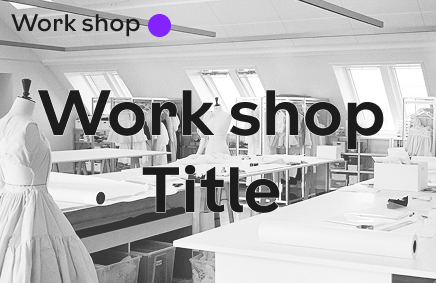
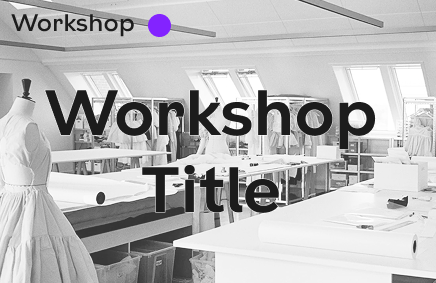
developped map pins

diff --git a/map.html b/map.html
@@ -26,27 +26,47 @@
     <h1><a href="index.html">HOME > </a></h1>  <h1><a class="active">MAP</a></h1>
 </footer>
 <script>
+
     const pins = [
   {
     id: 1,
-    top: "40%",
+    top: "35%",
     left: "60%",
-    title: "Main Stage",
-    desc: "Opening Ceremony & Keynote"
+    title: "Main Runway Hall",
+    desc: "Nørregade 14, 1165 København K",
+    img: "/map/runway.png"
   },
   {
     id: 2,
     top: "65%",
     left: "30%",
-    title: "Design Zone",
-    desc: "Exhibitions and pop-up studios"
+    title: "TikTok Creator Hub",
+    desc: "Vesterbrogade 72, 1620 København",
+    img: "/map/tiktok.png"
   },
   {
     id: 3,
     top: "55%",
+    left: "80%",
+    title: "Exhibition",
+    desc: "Gothersgade 105, 1123 København K",
+    img: "/map/exhibition.png"
+  },
+   {
+    id: 4,
+    top: "25%",
     left: "75%",
     title: "Food Lounge",
-    desc: "Refreshments & networking area"
+    desc: "Læderstræde 18, 1201 København K,",
+    img: "/map/food.png"
+  },
+  {
+    id: 5,
+    top: "35%",
+    left: "20%",
+    title: "CIFF",
+    desc: "Studiestræde 45, 1554 København",
+    img: "/map/ciff.png"
   }
 ];
 
@@ -59,22 +79,21 @@ pins.forEach(pin => {
   pinEl.style.left = pin.left;
   pinEl.innerHTML = `
     <img src="/map/pin.svg" alt="Pin" width="40" height="40">
+    <div class="pin-title">${pin.title}</div>
     <div class="popup">
-      <h4>${pin.title}</h4>
+        <img class="map-popup-img"src="${pin.img}">
       <p>${pin.desc}</p>
     </div>
   `;
   pinsContainer.appendChild(pinEl);
 
-  // 클릭으로 팝업 열고 닫기
   const popup = pinEl.querySelector('.popup');
   pinEl.addEventListener('click', e => {
-    e.stopPropagation(); // 다른 핀 클릭 시 닫힘 방지
+    e.stopPropagation(); 
     popup.classList.toggle('active');
   });
 });
 
-// 지도 밖 클릭 시 모든 팝업 닫기
 document.addEventListener('click', () => {
   document.querySelectorAll('.popup.active').forEach(p => p.classList.remove('active'));
 });

diff --git a/stylesheet.css b/stylesheet.css
@@ -218,10 +218,6 @@ header .powered span {
   margin-bottom: -50px;
 }
 
-.map .event-head{
-  margin-top: 120px;
-}
-
 .event-head{
   font-family: 'KBH-Medium', sans-serif;
   font-size: 21px;
@@ -239,8 +235,8 @@ aside{
 
 .map-small{
   border:1px solid var(--accent-color);
-  width: 350px;
-  height: auto;
+  width: 400px;
+  height: 320px;
 }
 
 .qr-section{
@@ -462,7 +458,7 @@ aside{
 .event[data-type="Talk"] .event-thumbnail,
 .event[data-type="Interview"] .event-thumbnail,
 .event[data-type="Film"] .event-thumbnail,
-.event[data-type="Work shop"] .event-thumbnail,
+.event[data-type="Workshop"] .event-thumbnail,
 .event[data-type="After party"] .event-thumbnail{
   margin-top:5px;
   border: 8px solid #FBFBFB;
@@ -612,6 +608,15 @@ aside{
   cursor: pointer;
 } */
 
+.map .event-head{
+  margin-top: 120px;
+}
+
+.map-popup-img{
+ width: 80px;
+ height: 80px;
+}
+
 .map-container {
   display: flex;
    justify-content: center;  /* 가로 중앙 정렬 */
@@ -659,19 +664,31 @@ aside{
   transform: scale(1.1);
 }
 
+.pin-title {
+  margin-top: 6px;
+  font-size: 21px;
+  font-weight: 600;
+  color: var(--main-color);
+  -webkit-text-stroke: 1px rgba(0,0,0,0.2);
+  text-shadow: 2px 2px 6px rgba(0,0,0,0.2);
+  white-space: nowrap;
+}
+
+
 .popup {
   position: absolute;
   top: -10px;
   left: 50%;
   transform: translate(-50%, -120%);
   background: white;
-  border-radius: 8px;
+  border-radius: 4px;
   box-shadow: 0 4px 8px rgba(0,0,0,0.15);
   padding: 8px 12px;
-  width: 160px;
-  font-size: 14px;
-  text-align: center;
-  display: none;
+  width: 200px;
+  font-size: 16px;
+  color:#1C1C1C;
+  display: flex;
+  gap: 10px;
 }
 
 .popup.active {

diff --git a/schedules.js b/schedules.js
@@ -211,8 +211,8 @@ Please visit the Vega website to book your ticket.`
     },
      { 
       time: "13:00",
-      title: "Work Shop Title",         
-      type: "Work shop",      
+      title: "Workshop Title",         
+      type: "Workshop",      
       date: "27 Jan 2026",
       host: "Kim from Kolding design school",
       venue: "Illum Studio 2F",
@@ -484,8 +484,8 @@ note: `This talk show has limited seats.
 },
 {
   time: "13:00",
-  title: "Work Shop Title",
-  type: "Work shop",
+  title: "Workshop Title",
+  type: "Workshop",
   date: "28 Jan 2026",
       host: "Kim from Kolding design school",
       venue: "Illum Studio 2F",
@@ -742,8 +742,8 @@ Please visit the Vega website to book your ticket.`
 //3rd column
 {
   time: "10:00",
-  title: "Work shop Title",
-  type: "Work shop",
+  title: "Workshop Title",
+  type: "Workshop",
   date: "29 Jan 2026",
       host: "Kim from Kolding design school",
       venue: "Illum Studio 2F",
@@ -946,8 +946,8 @@ note: `This talk show has limited seats.
 },
 {
   time: "13:00",
-  title: "Work Shop Title",
-  type: "Work shop",
+  title: "Workshop Title",
+  type: "Workshop",
   date: "30 Jan 2026",
       host: "Kim from Kolding design school",
       venue: "Illum Studio 2F",
